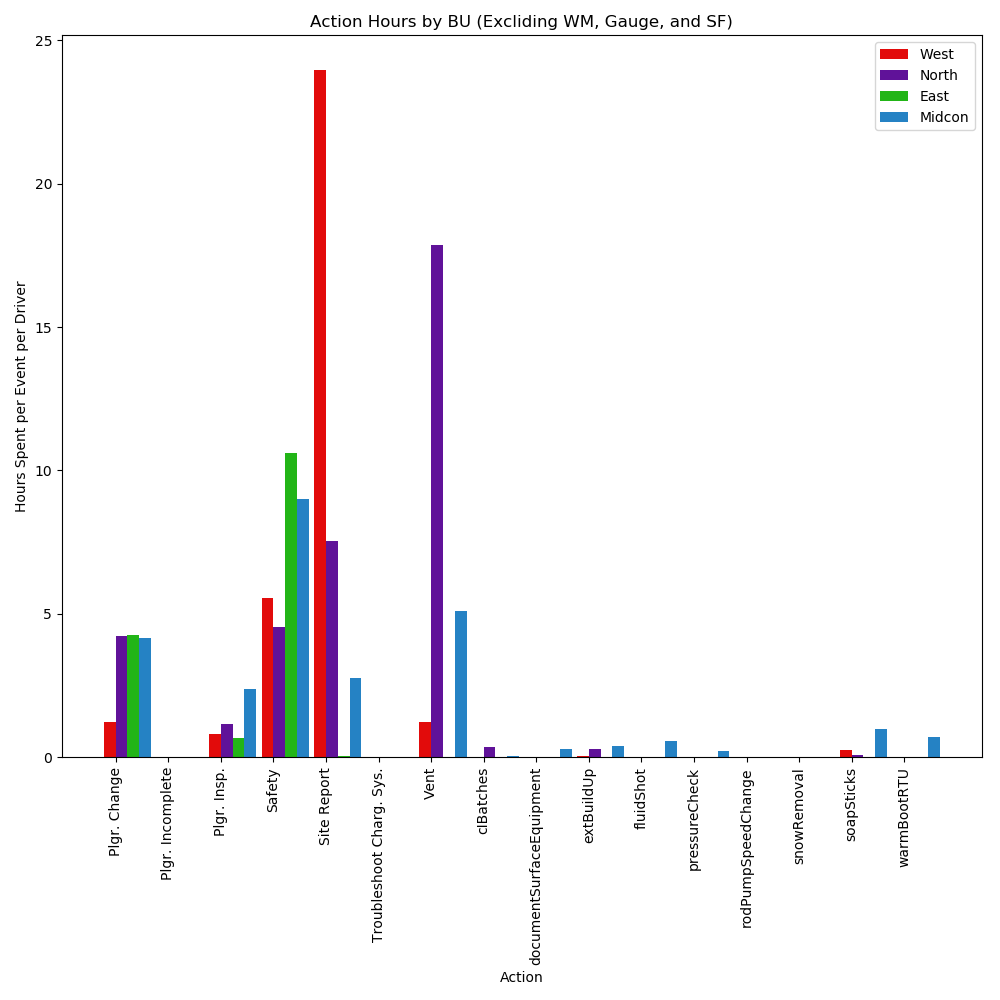
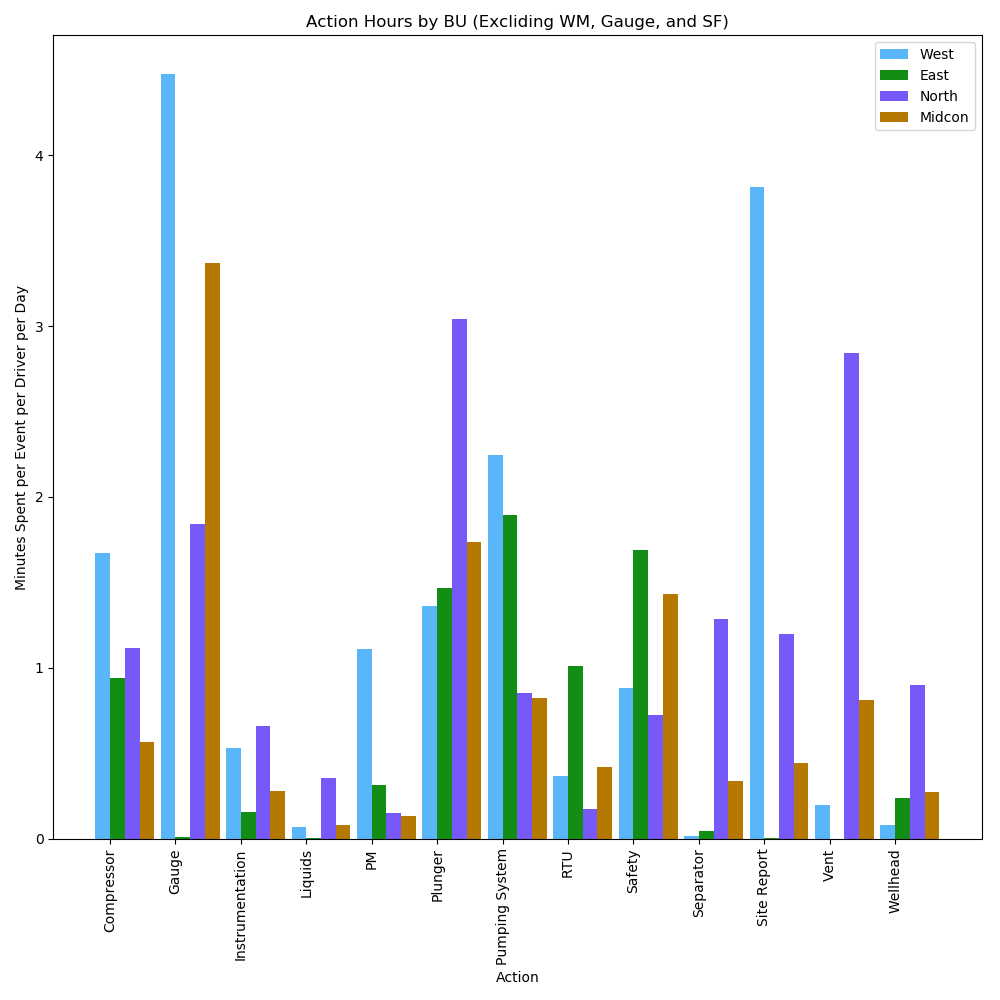
colors and per day

diff --git a/analyze.py b/analyze.py
@@ -353,8 +353,8 @@ def site_report(df, graph_per='driver'):
 	plt.close()
 	fig, ax = plt.subplots(1, 1, figsize=(4, 4))
 
-	colors = {'east': '#22b517', 'midcon': '#2582c4',
-			  'north': '#601299', 'west': '#e20b0b'}
+	colors = {'east': '#128e14', 'midcon': '#b57800',
+			  'north': '#7759f9', 'west': '#59b7f9'}
 
 	grouped_df = df.groupby(['BusinessUnit', 'Action Type - No count'], as_index=False).mean()
 
@@ -383,14 +383,75 @@ def work_dist(df, graph_per='driver'):
 
 	drivers = {'east': 42, 'midcon': 61, 'north': 69, 'west': 140}
 	wells = {'east': 880, 'midcon': 2853, 'north': 2003, 'west': 3834}
-	colors = {'east': '#22b517', 'midcon': '#2582c4',
-			  'north': '#601299', 'west': '#e20b0b'}
+	colors = {'east': '#128e14', 'midcon': '#b57800',
+			  'north': '#7759f9', 'west': '#59b7f9'}
 
 	df.loc[(df['Action Type - No count'] == 'Safety 2.0') |
 		   (df['Action Type - No count'] == 'Safety 3.0'),
 		   'Action Type - No count'] = 'Safety'
+	df.loc[(df['Action Type - No count'] == 'Plgr. Change') |
+		   (df['Action Type - No count'] == 'Plgr. Insp.') |
+		   (df['Action Type - No count'] == 'Plgr. Incomplete'),
+		   'Action Type - No count'] = 'Plunger'
+	df.loc[df['Action Type 1'] == 'Compressor - Gas Lift',
+		   'Action Type - No count'] = 'Compressor'
+	df.loc[(df['Action Type 1'] == 'Gas Scrubber') |
+		   (df['Action Type 1'] == 'Gas Scrubber Separator') |
+	  	   (df['Action Type 1'] == 'Sand Separator') |
+		   (df['Action Type 1'] == 'Dehy') |
+		   (df['Action Type 1'] == 'Fuel Gas/Start Gas') |
+	  	   (df['Action Type 1'] == 'Heat Medium') |
+	  	   (df['Action Type 1'] == 'Heater Treater') |
+	  	   (df['Action Type 1'] == 'Instrument Air') |
+	  	   (df['Action Type 1'] == 'Sales Valve') |
+	  	   (df['Action Type 1'] == 'Sales Valve (PV)') |
+	  	   (df['Action Type 1'] == 'Amine') |
+	  	   (df['Action Type 1'] == 'Separator Inlet Valve (XV)'),
+	  	   'Action Type - No count'] = 'Separator'
+	df.loc[(df['Action Type 1'] == 'Tanks') |
+		   (df['Action Type 1'] == 'Tanks/Pits') |
+		   (df['Action Type 1'] == 'Water Transfer'),
+	       'Action Type - No count'] = 'Liquids'
+	df.loc[(df['Action Type 1'] == 'Pumping Unit') |
+		   (df['Action Type 1'] == 'Recirc Pump'),
+		   'Action Type - No count'] = 'Pumping System'
+	df.loc[df['Action Type 1'] == 'Instrumentation',
+		   'Action Type - No count'] = 'Instrumentation'
+	df.loc[df['Action Type 1'] == 'Wellhead',
+		   'Action Type - No count'] = 'Wellhead'
+	df.loc[(df['Action Type - No count'] == 'WM Completed') &
+		   (df['CommentAction'].str.contains('rtu')),
+		   'Action Type - No count'] = 'RTU'
+	df.loc[(df['Action Type - No count'] == 'WM Completed') &
+		   (df['CommentAction'].str.contains('pump')),
+		   'Action Type - No count'] = 'Pumping System'
+	df.loc[(df['Action Type - No count'] == 'WM Completed') &
+		   (df['CommentAction'].str.contains('pm')),
+		   'Action Type - No count'] = 'PM'
+	df.loc[(df['Action Type - No count'] == 'WM Completed') &
+		   (df['CommentAction'].str.contains('plunger')),
+		   'Action Type - No count'] = 'Plunger'
+	df.loc[(df['Action Type - No count'] == 'WM Completed') &
+		   (df['CommentAction'].str.contains('comp')),
+		   'Action Type - No count'] = 'Compressor'
 
-	grouped_df = df.groupby(['BusinessUnit', 'Action Type - No count'], as_index=False).sum()
+	df_short = df.loc[(df['Action Type - No count'] != 'Troubleshoot Charg. Sys.') &
+					  (df['Action Type - No count'] != 'cIBatches') &
+					  (df['Action Type - No count'] != 'documentSurfaceEquipment') &
+					  (df['Action Type - No count'] != 'extBuildUp') &
+					  (df['Action Type - No count'] != 'fluidShot') &
+					  (df['Action Type - No count'] != 'pressureCheck') &
+					  (df['Action Type - No count'] != 'snowRemoval') &
+					  (df['Action Type - No count'] != 'soapSticks') &
+					  (df['Action Type - No count'] != 'SF') &
+					  (df['Action Type - No count'] != 'WM Completed') &
+					  (df['Action Type - No count'] != 'rodPumpSpeedChange') &
+					  (df['Action Type - No count'] != 'warmBootRTU'), :]
+
+	df_short.loc[:, 'Action Date'] = pd.to_datetime(df_short.loc[:, 'Action Date'])
+	days = (df_short['Action Date'].max() - df_short['Action Date'].min()).days
+
+	grouped_df = df_short.groupby(['BusinessUnit', 'Action Type - No count'], as_index=False).sum()
 	for bu in grouped_df['BusinessUnit'].unique():
 		for event in grouped_df['Action Type - No count'].unique():
 			if event not in grouped_df.loc[grouped_df['BusinessUnit'] == bu,
@@ -402,7 +463,7 @@ def work_dist(df, graph_per='driver'):
 											   ignore_index=True)
 	grouped_df.sort_values(['BusinessUnit', 'Action Type - No count'], inplace=True)
 
-	events = sorted(df['Action Type - No count'].unique())
+	events = sorted(df_short['Action Type - No count'].unique())
 
 	i = 0
 	index = np.arange(len(events))
@@ -412,7 +473,7 @@ def work_dist(df, graph_per='driver'):
 		bu_df = grouped_df.loc[grouped_df['BusinessUnit'] == bu, :].sort_values('Action Type - No count')
 
 		if graph_per == 'driver':
-			divisor = drivers[bu.lower()]
+			divisor = drivers[bu.lower()] / 60
 			graph_title = ' per Driver'
 			scale = ''
 			graph_save = 'driver'
@@ -422,13 +483,13 @@ def work_dist(df, graph_per='driver'):
 			scale = ''
 			graph_save = 'well'
 		else:
-			divisor = 100
+			divisor = 1
 			graph_title = ''
-			scale = 'Hundreds of '
+			scale = ''
 			graph_save = 'total'
 
 		ax.bar(index + (width * i),
-			   bu_df['agg_dur'].values / divisor / 60 / 60, width,
+			   bu_df['agg_dur'].values / divisor / 60 / 60 / days, width,
 			   color=colors[bu.lower()], label=bu)
 		ax.set_xticks(index + width / 2)
 		ax.set_xticklabels(events)
@@ -436,7 +497,7 @@ def work_dist(df, graph_per='driver'):
 
 	plt.title('Action Hours by BU (Excliding WM, Gauge, and SF)')
 	plt.xlabel('Action')
-	plt.ylabel('{}Hours Spent per Event{}'.format(scale, graph_title))
+	plt.ylabel('{}Minutes Spent per Event{} per Day'.format(scale, graph_title))
 	plt.xticks(rotation='vertical')
 	plt.legend()
 	plt.tight_layout()
@@ -810,7 +871,7 @@ if __name__ == '__main__':
 	# 				  ['Action Date', 'agg_dur']])
 	# pie(wh_df[['Action Type - No count', 'Action Type 1', 'CommentAction', 'agg_dur']])
 
-	safety_plot(wh_df)
+	# safety_plot(wh_df)
 
 	# gauge_df = gauge_pull()
 	# g_df = gauge_events(gauge_df)
@@ -823,7 +884,7 @@ if __name__ == '__main__':
 
 	# dis_df = dispatch_pull()
 	# work_dis_df = dis_df[['BusinessUnit', '_id', 'Action Type - No count']]
-	# for g_type in ['driver', 'well']:
+	# for g_type in ['driver']:
 	# 	work_dist(work_dis_df, g_type)
 
 	# hour_df = pd.read_csv('data/ws_hours.csv')
@@ -833,11 +894,13 @@ if __name__ == '__main__':
 	# 				  ['BusinessUnit', '_id', 'Action Type - No count', 'Action Date']]
 	# all_df = a_df.loc[:, ['BusinessUnit', '_id', 'Action Type - No count', 'Action Date']]
 	# wh_df = pd.merge(work_df, hour_df, left_on='_id', right_on='id')
-	# site_report(wh_df[wh_df['Action Type - No count'] == 'Site Report'])
+	site_report(wh_df[wh_df['Action Type - No count'] == 'Site Report'])
 
 	# action_count(a_df)
-	# for g_type in ['driver', 'all']:
-	# 	work_dist(wh_df[['BusinessUnit', 'Action Type - No count', 'agg_dur']], g_type)
+	for g_type in ['driver']:
+		work_dist(wh_df[['BusinessUnit', 'Action Type - No count',
+						 'Action Type 1', 'CommentAction', 'agg_dur',
+						 'Action Date']], g_type)
 
 	# dispatch_wm(dis_df.loc[(dis_df['Action Type - No count'] == 'WM Completed') &
 	# 				   	   (dis_df['CommentAction'].notnull()), :])
